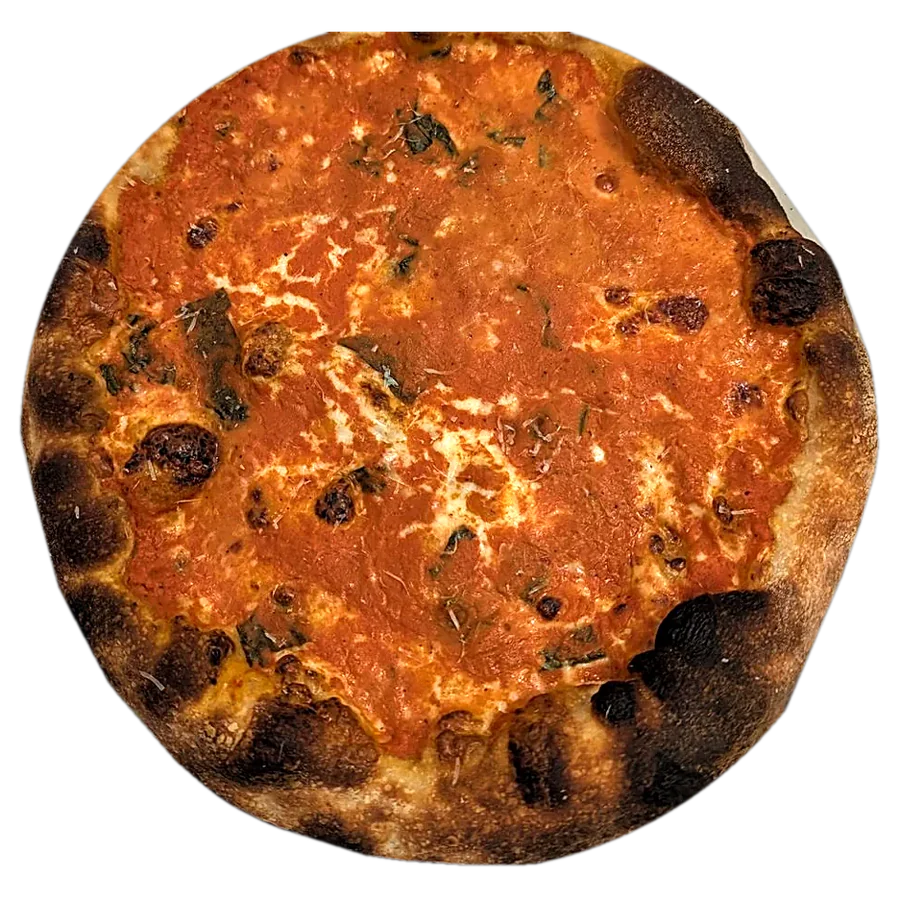
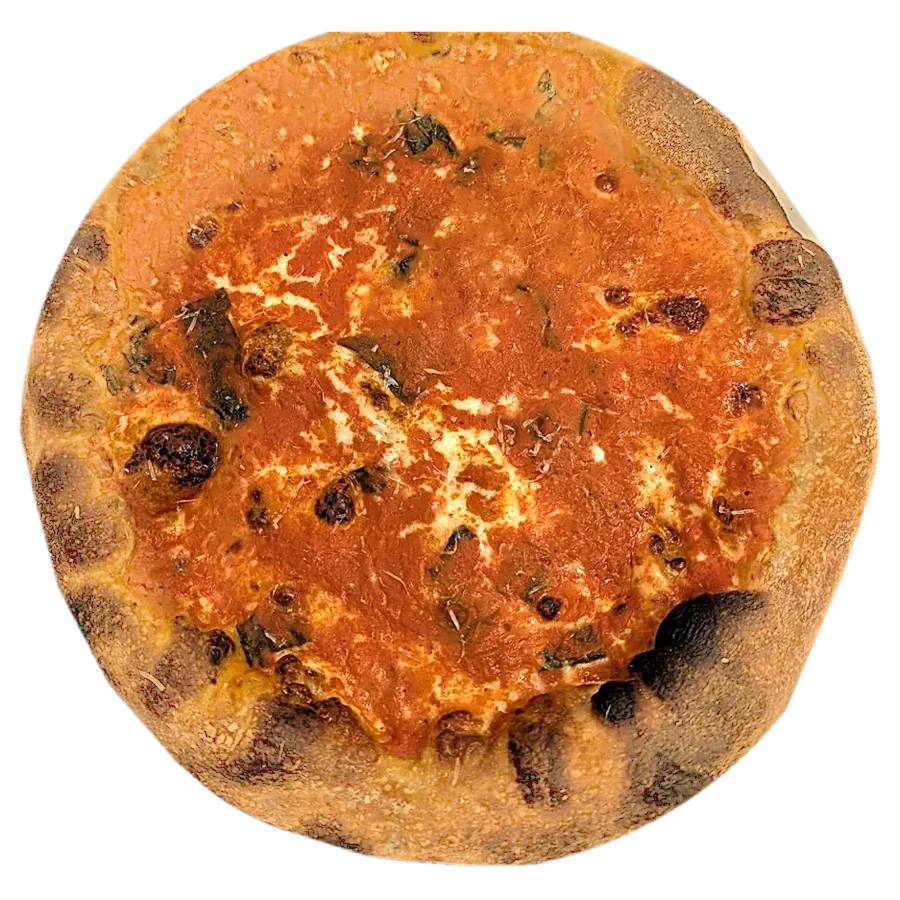
Vodka pie: retouch charred crust to golden brown (original kept in images/originals)

Changed region(s): [[0.0, 0.0311, 0.9956, 0.9644]]

diff --git a/index.html b/index.html
@@ -253,7 +253,7 @@ footer .wrap a:hover{color:var(--ink)}
   <section id="pies" class="alt">
     <div class="wrap">
       <div class="pies">
-        <figure><img src="images/pizza-vodka.webp" alt="The Vodka pie" loading="lazy" width="900" height="900"></figure>
+        <figure><img src="images/pizza-vodka.webp?v=2" alt="The Vodka pie" loading="lazy" width="900" height="900"></figure>
         <figure><img src="images/pizza-spinach-artichoke.webp" alt="The Spinach Artichoke pie" loading="lazy" width="900" height="900"></figure>
         <figure><img src="images/pizza-pear-hot-honey.webp" alt="The Poached Pear and Hot Honey pie" loading="lazy" width="900" height="900"></figure>
         <figure><img src="images/pizza-mushroom.webp" alt="Mushroom and red onion pie with chives" loading="lazy" width="900" height="900"></figure>

diff --git a/private-events.html b/private-events.html
@@ -259,7 +259,7 @@ button.pc-day.on{background:#C9A45C;color:#14110D}
         <h1>Pizza Omakase<br><em>for your group.</em></h1>
       </div>
       <figure>
-        <img src="images/pizza-vodka.webp" alt="The Vodka pie" width="900" height="900">
+        <img src="images/pizza-vodka.webp?v=2" alt="The Vodka pie" width="900" height="900">
       </figure>
     </div>
   </div>
